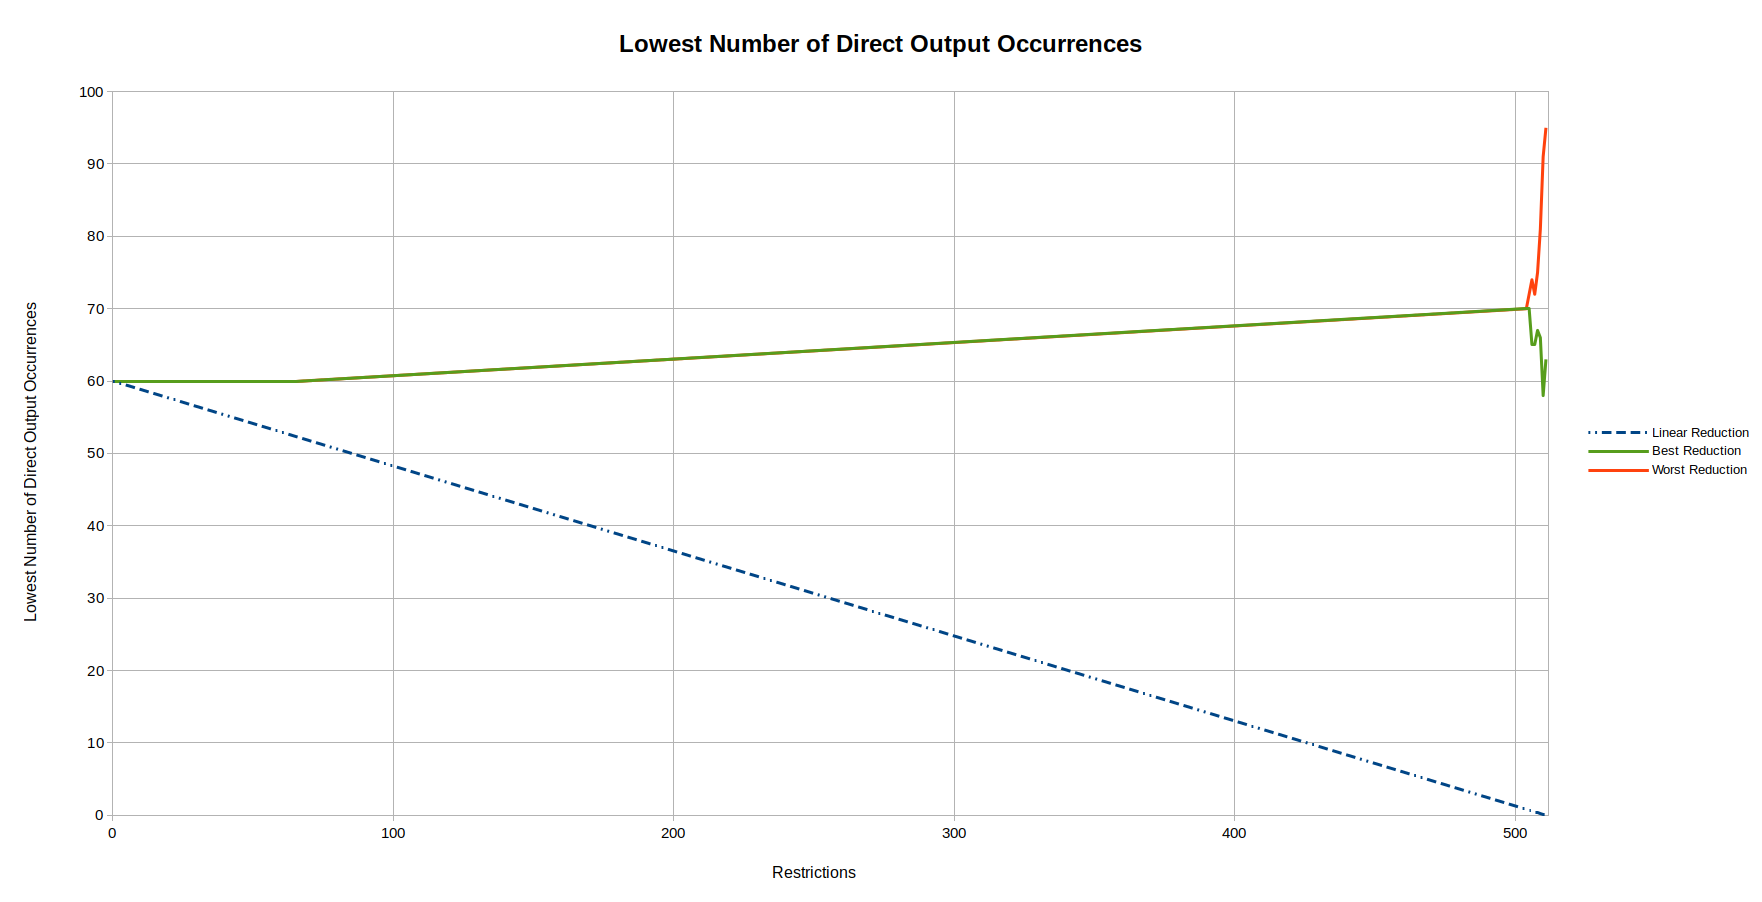
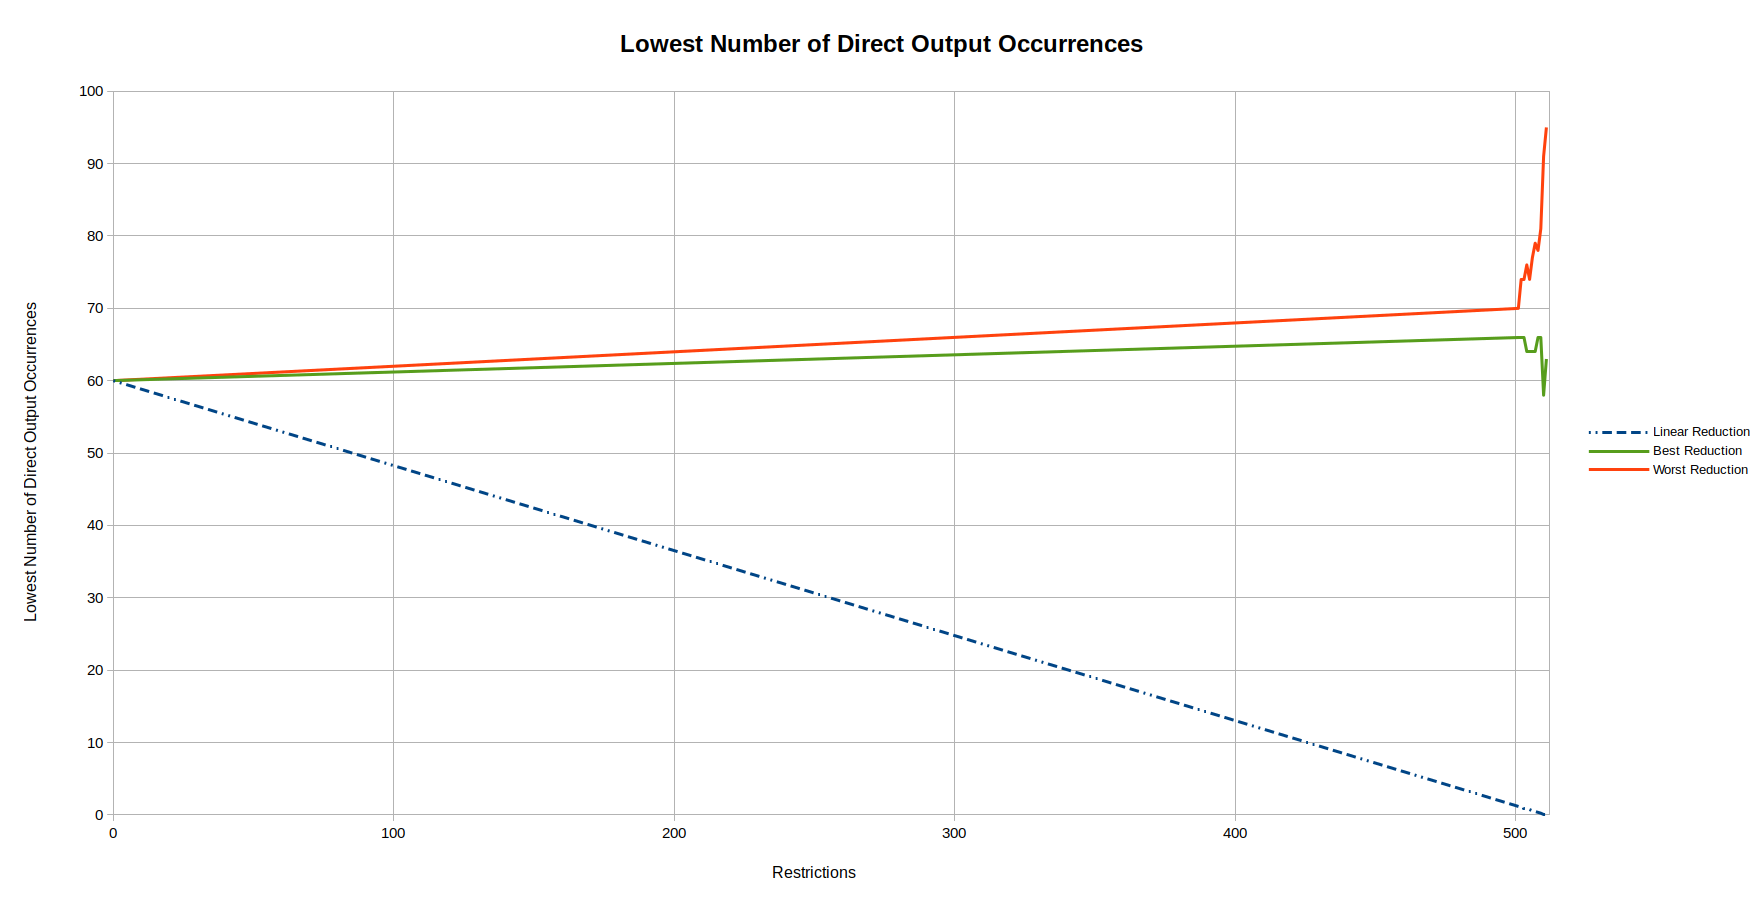
Updated the report with new results

diff --git a/results/Overview.md b/results/Overview.md
@@ -23,15 +23,17 @@ Results better than the linear reduction are marked in bold.
 |:------------:|:----------------:|:--------------:|:---------------:|
 | 0 | 60 | 60 | 60 |
 | 1 | 60 | 60 | 60 |
-| 65 | 52 | 60 | 60 |
-| 504 | 1 | 70 | 70 |
-| 505 | 1 | 70 | 72 |
-| 506 | 1 | 65 | 74 |
-| 507 | 0 | 65 | 72 |
-| 508 | 0 | 67 | 75 |
+| 501 | 1 | 66 | 70 |
+| 502 | 1 | 66 | 74 |
+| 503 | 1 | 66 | 74 |
+| 504 | 1 | 64 | 76 |
+| 505 | 1 | 64 | 74 |
+| 506 | 1 | 64 | 77 |
+| 507 | 0 | 64 | 79 |
+| 508 | 0 | 66 | 78 |
 | 509 | 0 | 66 | 81 |
 | 510 | 0 | 58 | 91 |
-|     511      |  0	              | [63](511/91eaaf8008a6bd389e724be1212f62e51a13e84d.md) | 95              |
+| 511 | 0 | 63 | 95 |
 
 ![Lowest Number of Direct Output Occurrences](Lowest_Number_of_Direct_Output_Occurrences.png "Lowest Number of Direct Output Occurrences")
 
@@ -55,21 +57,19 @@ Results better than the linear reduction are marked in bold.
 
 | Restrictions | Linear Reduction | Best Reduction | Worst Reduction |
 |:------------:|:----------------:|:--------------:|:---------------:|
-|       0      | 4,060            | 4,060          | 4,060           |
-|       1      | 4,052            | 4,060          | 4,060           |
-|      65      | 3,544            | 4,059          | 4,059           |
-| 501 | 79 | 3,934 | 4,356 |
-| 502 | 72 | 3,918 | 4,203 |
-| 503 | 64 | 3,918 | 3,979 |
+| 0 | 4,060 | 4,060 | 4,060 |
+| 1 | 4,052 | 4,060 | 4,060 |
+| 501 | 79 | 3,899 | 4,322 |
+| 502 | 72 | 3,882 | 4,203 |
+| 503 | 64 | 3,914 | 3,979 |
 | 504 | 56 | 3,919 | 4,012 |
 | 505 | 48 | 3,920 | 4,550 |
-| 506 | 40 | 3,994 | 4,055 |
-| 507 | 32 | 4,044 | 4,112 |
-| 508 | 24 | 4,032 | 4,556 |
-| 509 | 16 | 4,059 | 5,046 |
+| 506 | 40 | 3,960 | 4,614 |
+| 507 | 32 | 3,956 | 4,636 |
+| 508 | 24 | 4,032 | 4,632 |
+| 509 | 16 | 4,018 | 5,046 |
 | 510 | 8 | 3,892 | 5,189 |
 | 511 | 0 | 63 | 95 |
-|     511      |  0	              | [63](511/91eaaf8008a6bd389e724be1212f62e51a13e84d.md) | 95              |
 
 ![Lowest Number of Direct Occurrences](Lowest_Number_of_Direct_Occurrences.png "Lowest Number of Direct Occurrences")
 
